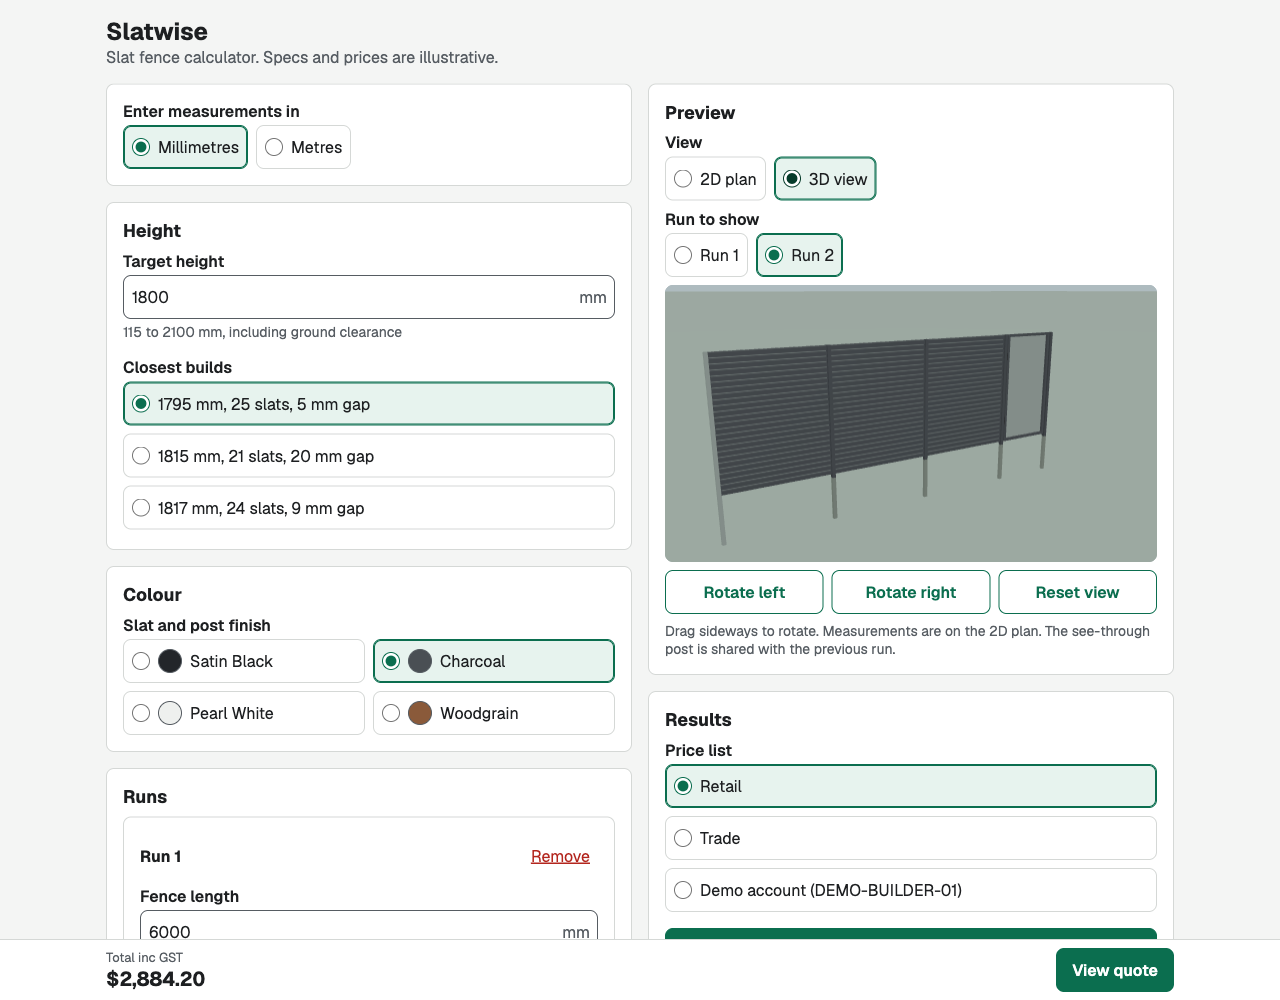
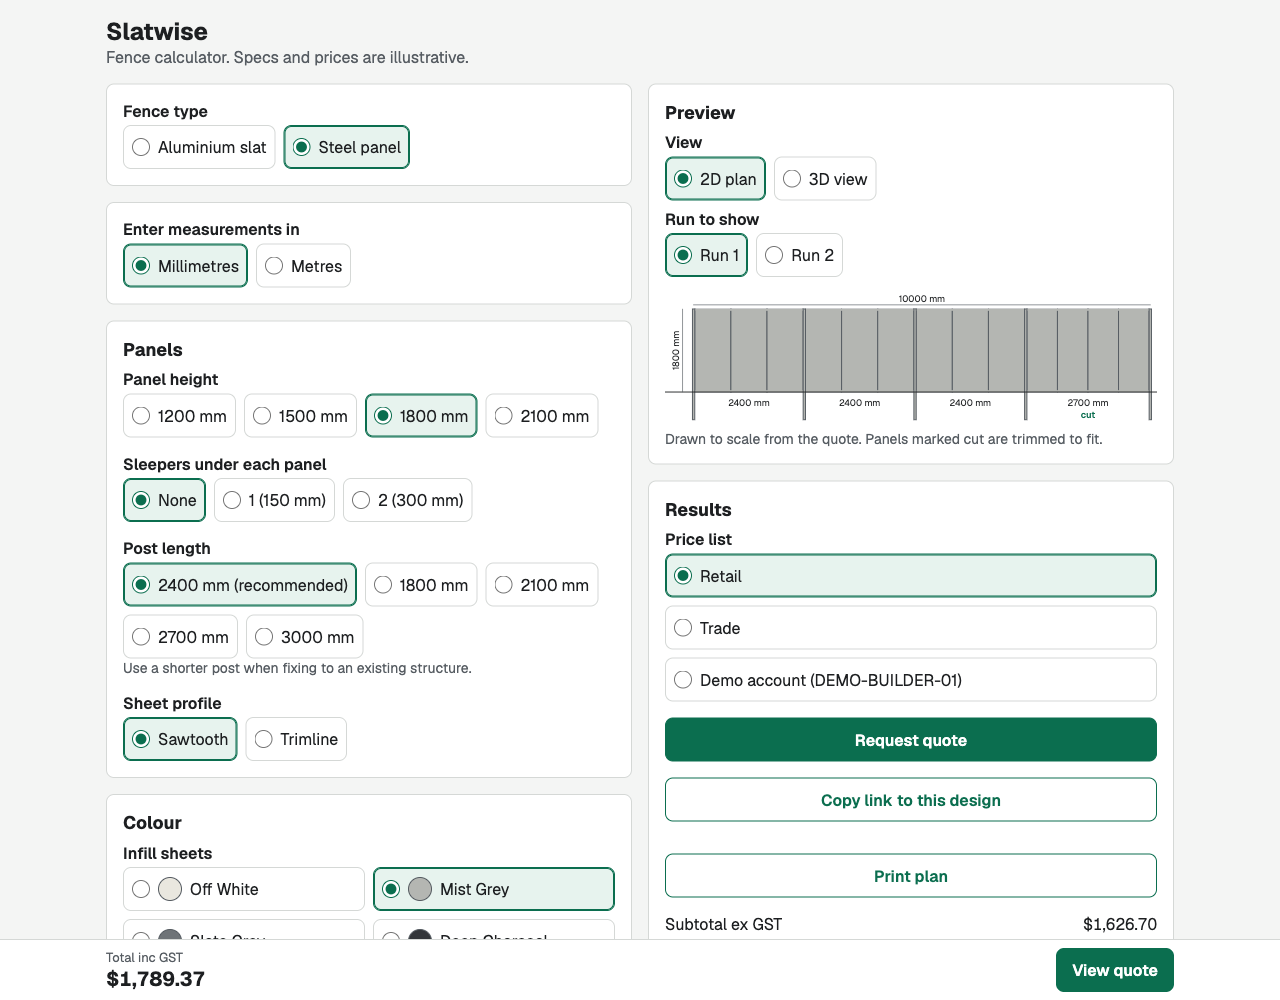
chore: name the quote source for both fence types, refresh a screenshot

diff --git a/src/engine/quote.ts b/src/engine/quote.ts
@@ -24,7 +24,7 @@ const runs = z
 
 // Shared by the browser and the server, shaped for an ERP to consume.
 export const QuoteSchema = z.object({
-  source: z.literal("slat-calculator"),
+  source: z.literal("fence-calculator"),
   createdAt: z.iso.datetime({ offset: true }),
   customer: z.object({
     tier: z.enum(["retail", "trade"]),
@@ -113,7 +113,7 @@ export function buildQuote(
   if (!result.ok) throw new RangeError(result.error);
 
   return {
-    source: "slat-calculator",
+    source: "fence-calculator",
     createdAt: now.toISOString(),
     customer: { tier: ctx.tier, accountCode: ctx.accountCode },
     design: toQuoteDesign(design, result.layouts[0].fenceHeightMm),

diff --git a/src/engine/__tests__/quote.test.ts b/src/engine/__tests__/quote.test.ts
@@ -48,7 +48,7 @@ function quote(d = design, ctx = RETAIL): Quote {
 describe("buildQuote", () => {
   it("builds the payload for the 6000 mm example", () => {
     const q = quote();
-    expect(q.source).toBe("slat-calculator");
+    expect(q.source).toBe("fence-calculator");
     expect(q.createdAt).toBe("2026-11-01T23:30:00.000Z");
     expect(q.customer).toEqual({ tier: "retail" });
     expect(q.design).toEqual({

diff --git a/README.md b/README.md
@@ -10,7 +10,7 @@ Specs and prices are illustrative. This is a portfolio project, not affiliated w
 
 <p>
   <img src=".github/screenshot-phone.png" alt="The calculator on a phone, showing a 3D view of a fence run with a gate above the inputs, with the total pinned to the bottom of the screen" width="260">
-  <img src=".github/screenshot-desktop.png" alt="The calculator on desktop, with the inputs on the left and the 3D view and results on the right" width="520">
+  <img src=".github/screenshot-desktop.png" alt="The steel panel calculator on desktop, with the inputs on the left and the 2D plan and results on the right" width="520">
 </p>
 
 ## Features
